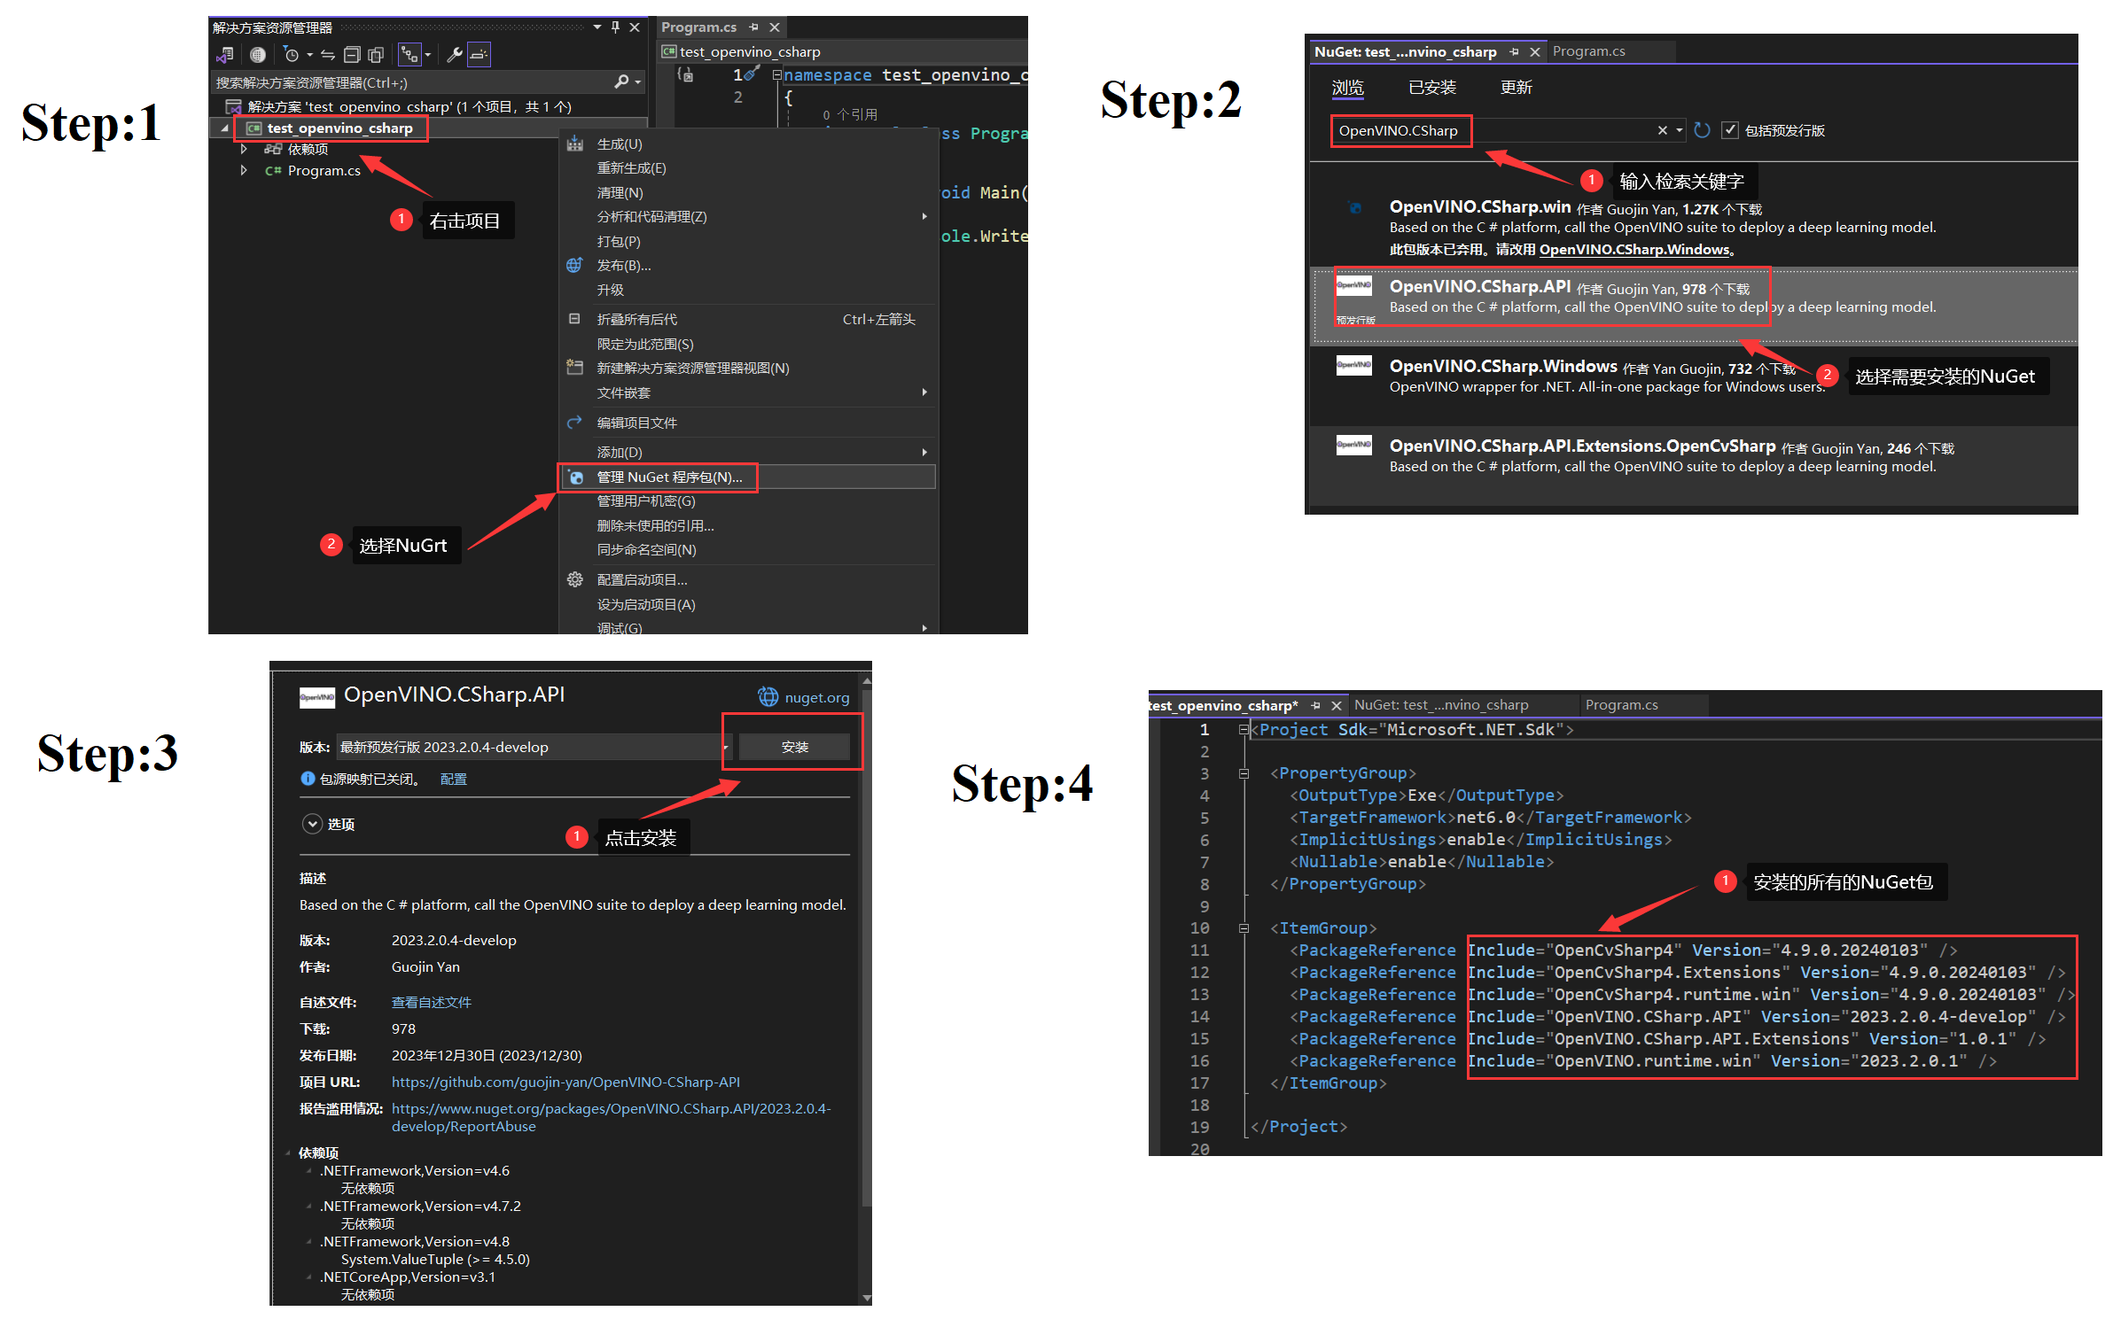
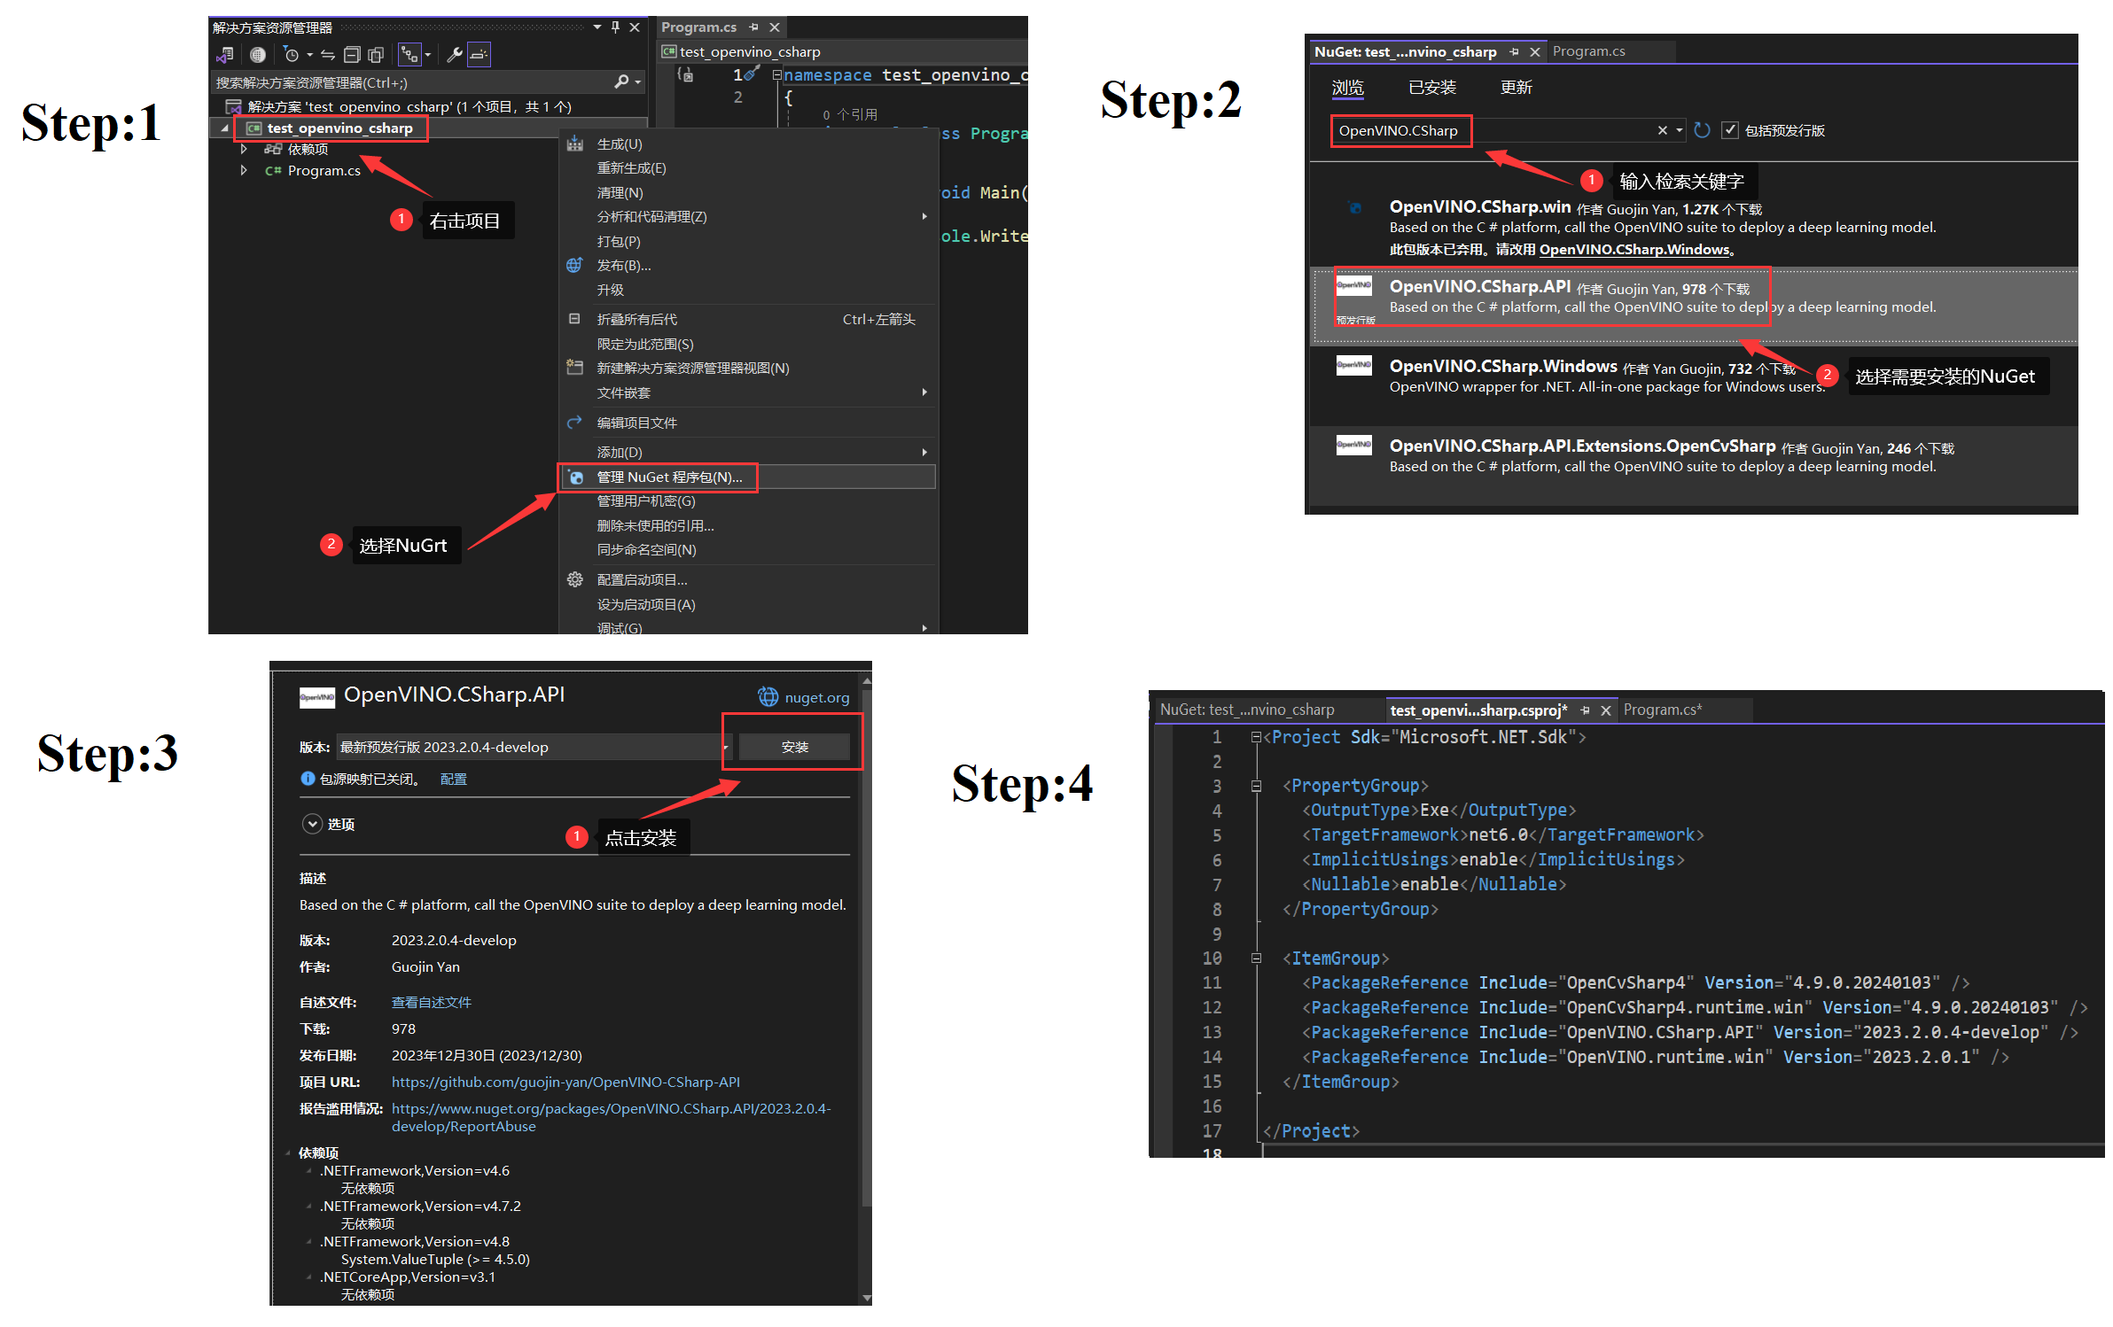
Modify article content

Changed region(s): [[0.5277, 0.522, 1.0, 0.8905]]

diff --git a/doc/Install_OpenVINO_CSharp_Windows.md b/doc/Install_OpenVINO_CSharp_Windows.md
@@ -4,18 +4,17 @@
   - [🧩简介](#🧩简介)
   - [🔮安装.NET运行环境](#🔮安装.NET运行环境)
   - [🎈配置C#开发环境](#🎈配置C#开发环境)
-  - [🎨配置OpenVINO™C#项目](#🎨配置OpenVINO™C#项目)
+  - [🎨创建并配置C#项目](#🎨创建并配置C#项目)
     - [第一步：创建OpenVINO™C#项目](#第一步：创建OpenVINO™C#项目)
     - [第二步：添加项目依赖](#第二步：添加项目依赖)
-    - [第三步：添加项目代码](#第三步：添加项目代码)
-  - [🎁运行OpenVINO™C#项目](#🎁运行OpenVINO™C#项目)
+  - [🎁测试OpenVINO™C#项目](#🎁测试OpenVINO™C#项目)
   - [🎯总结](#🎯总结)
 
 
 
 ### 🧩简介
 
-本文将从零开始详述在**Windows10/11**上搭建**OpenVINO™ CSharp**开发环境，并使用 **OpenVINO™ CSharp API **部署 **Yolov8s** 模型。
+本文将从零开始详述在**Windows10/11**上搭建**OpenVINO™ CSharp**开发环境，并对 **OpenVINO™ CSharp API **环境进行简单测试。
 
 ### 🔮安装.NET运行环境
 
@@ -35,7 +34,7 @@
 - [Visual Studio 2022 IDE](https://visualstudio.microsoft.com/zh-hans/vs/)
 - [在 Windows 上安装 .NET](https://learn.microsoft.com/zh-cn/dotnet/core/install/windows)
 
-### 🎨配置OpenVINO™C#项目
+### 🎨创建并配置C#项目
 
 #### 第一步：创建 OpenVINO™C# 项目
 
@@ -53,272 +52,53 @@
 
 在此处，主要需要安装两类 NuGet 程序包，分别为：
 
-- **OpenVINO**
+- **OpenVINO CSharp API**
   - **OpenVINO.CSharp.API**：OpenVINO CSharp API 项目核心程序集。
-  - **OpenVINO.CSharp.API.Extensions**：OpenVINO CSharp API 项目扩展接口程序集。
   - **OpenVINO.runtime.win**：OpenVINO 在Windows平台运行所需依赖项。
-
 - **OpenCvSharp**
   - **OpenCvSharp4**：OpenCvSharp4 项目核心程序集。
-  - **OpenCvSharp4.Extensions**：OpenCvSharp4项目扩展接口程序集。
   - **OpenCvSharp4.runtime.win**：OpenCvSharp4 在Windows平台运行所需依赖项。
 
-#### 第三步：添加项目代码
+其中**OpenVINO CSharp API**是此处我们重点介绍的项目，**OpenCvSharp**是在C#中使用的一个开源视觉处理库。
 
-使用 OpenVINO CSharp API 部署 Yolov8 模型全部项目代码已经上传到[OpenVINO-CSharp-API-Samples/model_samples/yolov8 ](https://github.com/guojin-yan/OpenVINO-CSharp-API-Samples/tree/master/model_samples/yolov8)，大家可以自行下载进行使用。为了防止初学者无法完整的复现该项目，所以此处摘出来了关键代码，可以直接实现使用 OpenVINO CSharp API 部署 Yolov8-det 模型模型，用户可以直接将下述代码替换到上文所创建的项目中的**Program.cs**文件中。
+### 🎁测试OpenVINO™C#项目
+
+首先添加测试代码，用户可以直接将下述代码替换到上文所创建的项目中的**Program.cs**文件中。
 
 ```csharp
-using System.Runtime.InteropServices;
 using OpenCvSharp;
-using OpenCvSharp.Dnn;
 using OpenVinoSharp;
-using OpenVinoSharp.Extensions;
-using OpenVinoSharp.Extensions.utility;
 namespace test_openvino_csharp
 {
     internal class Program
     {
         static void Main(string[] args)
         {
-            string model_path = "";
-            string image_path = "";
-            string device = "AUTO";
-            if (args.Length == 0)
-            {
-                if (!Directory.Exists("./model"))
-                {
-                    Directory.CreateDirectory("./model");
-                }
-                if (!File.Exists("./model/yolov8s.bin") && !File.Exists("./model/yolov8s.bin"))
-                {
-                    if (!File.Exists("./model/yolov8s.tar"))
-                    {
-                        _ = Download.download_file_async("https://github.com/guojin-yan/OpenVINO-CSharp-API-Samples/releases/download/Model/yolov8s.tar",
-                            "./model/yolov8s.tar").Result;
-                    }
-                    Download.unzip("./model/yolov8s.tar", "./model/");
-                }
-                if (!File.Exists("./model/test_image.jpg"))
-                {
-                    _ = Download.download_file_async("https://github.com/guojin-yan/OpenVINO-CSharp-API-Samples/releases/download/Image/test_det_02.jpg",
-                        "./model/test_image.jpg").Result;
-                }
-                model_path = "./model/yolov8s.xml";
-                image_path = "./model/test_image.jpg";
-            }
-            else if (args.Length >= 2) 
-            {
-                model_path = args[0];
-                image_path = args[1];
-                device = args[2];
-            }
-            else 
-            {
-                Console.WriteLine("Please enter the correct command parameters, for example:");
-                Console.WriteLine("> 1. dotnet run");
-                Console.WriteLine("> 2. dotnet run <model path> <image path> <device name>");
-            }
-            // -------- Get OpenVINO runtime version --------
-
+            // -------- 测试 OpenVINO CSharp API 安装 --------
             OpenVinoSharp.Version version = Ov.get_openvino_version();
+            Console.WriteLine("---- OpenVINO INFO----");
+            Console.WriteLine("Description : " + version.description);
+            Console.WriteLine("Build number: " + version.buildNumber);
 
-            Slog.INFO("---- OpenVINO INFO----");
-            Slog.INFO("Description : " + version.description);
-            Slog.INFO("Build number: " + version.buildNumber);
-
-            Slog.INFO("Predict model files: " + model_path);
-            Slog.INFO("Predict image  files: " + image_path);
-            Slog.INFO("Inference device: " + device);
-            Slog.INFO("Start yolov8 model inference.");
-
-            yolov8_det(model_path, image_path, device);
-        }
-        static void yolov8_det(string model_path, string image_path, string device)
-        {
-            DateTime start = DateTime.Now;
-            // -------- Step 1. Initialize OpenVINO Runtime Core --------
-            Core core = new Core();
-            DateTime end = DateTime.Now;
-            Slog.INFO("1. Initialize OpenVINO Runtime Core success, time spend: " + (end-start).TotalMilliseconds + "ms.");
-            // -------- Step 2. Read inference model --------
-            start = DateTime.Now;
-            Model model = core.read_model(model_path);
-            end = DateTime.Now;
-            Slog.INFO("2. Read inference model success, time spend: " + (end - start).TotalMilliseconds + "ms.");
-            OvExtensions.printf_model_info(model);
-            // -------- Step 3. Loading a model to the device --------
-            start = DateTime.Now;
-            CompiledModel compiled_model = core.compile_model(model, device);
-            end = DateTime.Now;
-            Slog.INFO("3. Loading a model to the device success, time spend:" + (end - start).TotalMilliseconds + "ms.");
-            // -------- Step 4. Create an infer request --------
-            start = DateTime.Now;
-            InferRequest infer_request = compiled_model.create_infer_request();
-            end = DateTime.Now;
-            Slog.INFO("4. Create an infer request success, time spend:" + (end - start).TotalMilliseconds + "ms.");
-            // -------- Step 5. Process input images --------
-            start = DateTime.Now;
-            Mat image = new Mat(image_path); // Read image by opencvsharp
-            int max_image_length = image.Cols > image.Rows ? image.Cols : image.Rows;
-            Mat max_image = Mat.Zeros(new OpenCvSharp.Size(max_image_length, max_image_length), MatType.CV_8UC3);
-            Rect roi = new Rect(0, 0, image.Cols, image.Rows);
-            image.CopyTo(new Mat(max_image, roi));
-            float factor = (float)(max_image_length / 640.0);
-            end = DateTime.Now;
-            Slog.INFO("5. Process input images success, time spend:" + (end - start).TotalMilliseconds + "ms.");
-            // -------- Step 6. Set up input data --------
-            start = DateTime.Now;
-            Tensor input_tensor = infer_request.get_input_tensor();
-            Shape input_shape = input_tensor.get_shape();
-            Mat input_mat = CvDnn.BlobFromImage(max_image, 1.0 / 255.0, new OpenCvSharp.Size(input_shape[2], input_shape[3]), 0, true, false);
-            float[] input_data = new float[input_shape[1] * input_shape[2] * input_shape[3]];
-            Marshal.Copy(input_mat.Ptr(0), input_data, 0, input_data.Length);
-            input_tensor.set_data<float>(input_data);
-
-            end = DateTime.Now;
-            Slog.INFO("6. Set up input data success, time spend:" + (end - start).TotalMilliseconds + "ms.");
-            // -------- Step 7. Do inference synchronously --------
-            infer_request.infer();
-            start = DateTime.Now;
-            infer_request.infer();
-            end = DateTime.Now;
-            Slog.INFO("7. Do inference synchronously success, time spend:" + (end - start).TotalMilliseconds + "ms.");
-            // -------- Step 8. Get infer result data --------
-            start = DateTime.Now;
-            Tensor output_tensor = infer_request.get_output_tensor();
-            int output_length = (int)output_tensor.get_size();
-            float[] output_data = output_tensor.get_data<float>(output_length);
-            end = DateTime.Now;
-            Slog.INFO("8. Get infer result data success, time spend:" + (end - start).TotalMilliseconds + "ms.");
-
-            // -------- Step 9. Process reault  --------
-            start = DateTime.Now;
-            Mat result_data = new Mat(84, 8400, MatType.CV_32F, output_data);
-            result_data = result_data.T();
-
-            // Storage results list
-            List<Rect> position_boxes = new List<Rect>();
-            List<int> class_ids = new List<int>();
-            List<float> confidences = new List<float>();
-            // Preprocessing output results
-            for (int i = 0; i < result_data.Rows; i++)
-            {
-                Mat classes_scores = new Mat(result_data, new Rect(4, i, 80, 1));
-                OpenCvSharp.Point max_classId_point, min_classId_point;
-                double max_score, min_score;
-                // Obtain the maximum value and its position in a set of data
-                Cv2.MinMaxLoc(classes_scores, out min_score, out max_score,
-                    out min_classId_point, out max_classId_point);
-                // Confidence level between 0 ~ 1
-                // Obtain identification box information
-                if (max_score > 0.25)
-                {
-                    float cx = result_data.At<float>(i, 0);
-                    float cy = result_data.At<float>(i, 1);
-                    float ow = result_data.At<float>(i, 2);
-                    float oh = result_data.At<float>(i, 3);
-                    int x = (int)((cx - 0.5 * ow) * factor);
-                    int y = (int)((cy - 0.5 * oh) * factor);
-                    int width = (int)(ow * factor);
-                    int height = (int)(oh * factor);
-                    Rect box = new Rect();
-                    box.X = x;
-                    box.Y = y;
-                    box.Width = width;
-                    box.Height = height;
-
-                    position_boxes.Add(box);
-                    class_ids.Add(max_classId_point.X);
-                    confidences.Add((float)max_score);
-                }
-            }
-            // NMS non maximum suppression
-            int[] indexes = new int[position_boxes.Count];
-            CvDnn.NMSBoxes(position_boxes, confidences, 0.5f, 0.5f, out indexes);
-
-            end = DateTime.Now;
-            Slog.INFO("9. Process reault  success, time spend:" + (end - start).TotalMilliseconds + "ms."); 
-            for (int i = 0; i < indexes.Length; i++)
-            {
-                int index = indexes[i];
-                Cv2.Rectangle(image, position_boxes[index], new Scalar(0, 0, 255), 2, LineTypes.Link8);
-                Cv2.Rectangle(image, new OpenCvSharp.Point(position_boxes[index].TopLeft.X, position_boxes[index].TopLeft.Y + 30),
-                    new OpenCvSharp.Point(position_boxes[index].BottomRight.X, position_boxes[index].TopLeft.Y), new Scalar(0, 255, 255), -1);
-                Cv2.PutText(image, class_ids[index] + "-" + confidences[index].ToString("0.00"),
-                    new OpenCvSharp.Point(position_boxes[index].X, position_boxes[index].Y + 25),
-                    HersheyFonts.HersheySimplex, 0.8, new Scalar(0, 0, 0), 2);
-            }
-            string output_path = Path.Combine(Path.GetDirectoryName(Path.GetFullPath(image_path)),
-                Path.GetFileNameWithoutExtension(image_path) + "_result.jpg");
-            Cv2.ImWrite(output_path, image);
-            Slog.INFO("The result save to " + output_path);
-            Cv2.ImShow("Result", image);
+            // -------- 测试 OpenCvSharp 安装--------
+            //创建一张大小为300*300颜色为绿色的三通道彩色图像
+            Mat img = new Mat(300, 300, MatType.CV_8UC3, new Scalar(255, 0, 0));
+            Cv2.ImShow("img", img);
             Cv2.WaitKey(0);
         }
     }
 }
 ```
 
-
-
-### 🎁运行OpenVINO™C#项目
-
 创建并配置好项目后，就可以直接运行该项目了，使用**Visual Studio 2022 IDE**可以直接点击运行案件运行程序，程序运行后输出如下所示：
 
-```shell
-<00:00:00> Sending http request to https://github.com/guojin-yan/OpenVINO-CSharp-API-Samples/releases/download/Model/yolov8s.tar.
-<00:00:01> Http Response Accquired.
-<00:00:01> Total download length is 21.62 Mb.
-<00:00:01> Download Started.
-<00:00:01> File created.
-<00:01:21> Downloading: [■■■■■■■■■■] 100% <00:01:21 0.27 Mb/s> 21.62 Mb/21.62 Mb downloaded.
-<00:01:21> File Downloaded, saved in C:\Users\Intel NUC\Desktop\test_openvino_csharp\test_openvino_csharp\bin\Debug\net6.0\model\yolov8s.tar.
-<00:00:00> Sending http request to https://github.com/guojin-yan/OpenVINO-CSharp-API-Samples/releases/download/Image/test_det_02.jpg.
-<00:00:01> Http Response Accquired.
-<00:00:01> Total download length is 0.16 Mb.
-<00:00:01> Download Started.
-<00:00:01> File created.
-<00:00:02> Downloading: [■■■■■■■■■■] 100% <00:00:02 0.06 Mb/s> 0.16 Mb/0.16 Mb downloaded.
-<00:00:02> File Downloaded, saved in C:\Users\Intel NUC\Desktop\test_openvino_csharp\test_openvino_csharp\bin\Debug\net6.0\model\test_image.jpg.
-[ INFO ] ---- OpenVINO INFO----
-[ INFO ] Description : OpenVINO Runtime
-[ INFO ] Build number: 2023.2.0-13089-cfd42bd2cb0-HEAD
-[ INFO ] Predict model files: ./model/yolov8s.xml
-[ INFO ] Predict image  files: ./model/test_image.jpg
-[ INFO ] Inference device: AUTO
-[ INFO ] Start yolov8 model inference.
-[ INFO ] 1. Initialize OpenVINO Runtime Core success, time spend: 6.7601ms.
-[ INFO ] 2. Read inference model success, time spend: 34.9634ms.
-[ INFO ] Inference Model
-[ INFO ]   Model name: torch_jit
-[ INFO ]   Input:
-[ INFO ]      name: images
-[ INFO ]      type: float
-[ INFO ]      shape: Shape : {1,3,640,640}
-[ INFO ]   Output:
-[ INFO ]      name: output0
-[ INFO ]      type: float
-[ INFO ]      shape: Shape : {1,84,8400}
-[ INFO ] 3. Loading a model to the device success, time spend:784.9361ms.
-[ INFO ] 4. Create an infer request success, time spend:0.6423ms.
-[ INFO ] 5. Process input images success, time spend:60.6686ms.
-[ INFO ] 6. Set up input data success, time spend:19.9202ms.
-[ INFO ] 7. Do inference synchronously success, time spend:87.8603ms.
-[ INFO ] 8. Get infer result data success, time spend:2.9166ms.
-[ INFO ] 9. Process reault  success, time spend:20.0242ms.
-[ INFO ] The result save to C:\Users\Intel NUC\Desktop\test_openvino_csharp\test_openvino_csharp\bin\Debug\net6.0\model\test_image_result.jpg
-```
+<div align=center><img src="../pic/csharp_windows_test_result.png" width=800></div>
 
-输出分为两个部分：
-
-- 第一部分为下载模型文件以及预测图片文件，此处主要是为了减少初学者的任务量，无需再自己导出Yolov8模型，如果用户想导出Yolov8模型，可以参考[ultralytics](https://github.com/ultralytics/ultralytics)项目进行模型导出。
-- 第二部分是模型推理流程输出，此处主要是输出了模型相关信息以及模型推理流程所需时间，最后将模型推理结果战术出来并保存到本地，模型推理结果如下图所示。
-
-<div align=center><img src="..\pic\csharp_windows_test_result.png" width=500></div>
+此处主要输出了OpenVINO版本信息，并使用OpenCvSharp绘制了一张蓝色图片，如果出现以下结果，说明环境配置成功。
 
 ### 🎯总结
 
-至此，我们就完成了使用**OpenVINO™ CSharp API **部署 **Yolov8s** 模型，欢迎大家使用，如需要更多信息，可以参考一下内容：
+至此，我们就完成了在Windows上搭建OpenVINO™C#开发环境，欢迎大家使用，如需要更多信息，可以参考一下内容：
 
 - [OpenVINO™](https://github.com/openvinotoolkit/openvino)
 - [OpenVINO CSharp API](https://github.com/guojin-yan/OpenVINO-CSharp-API)
